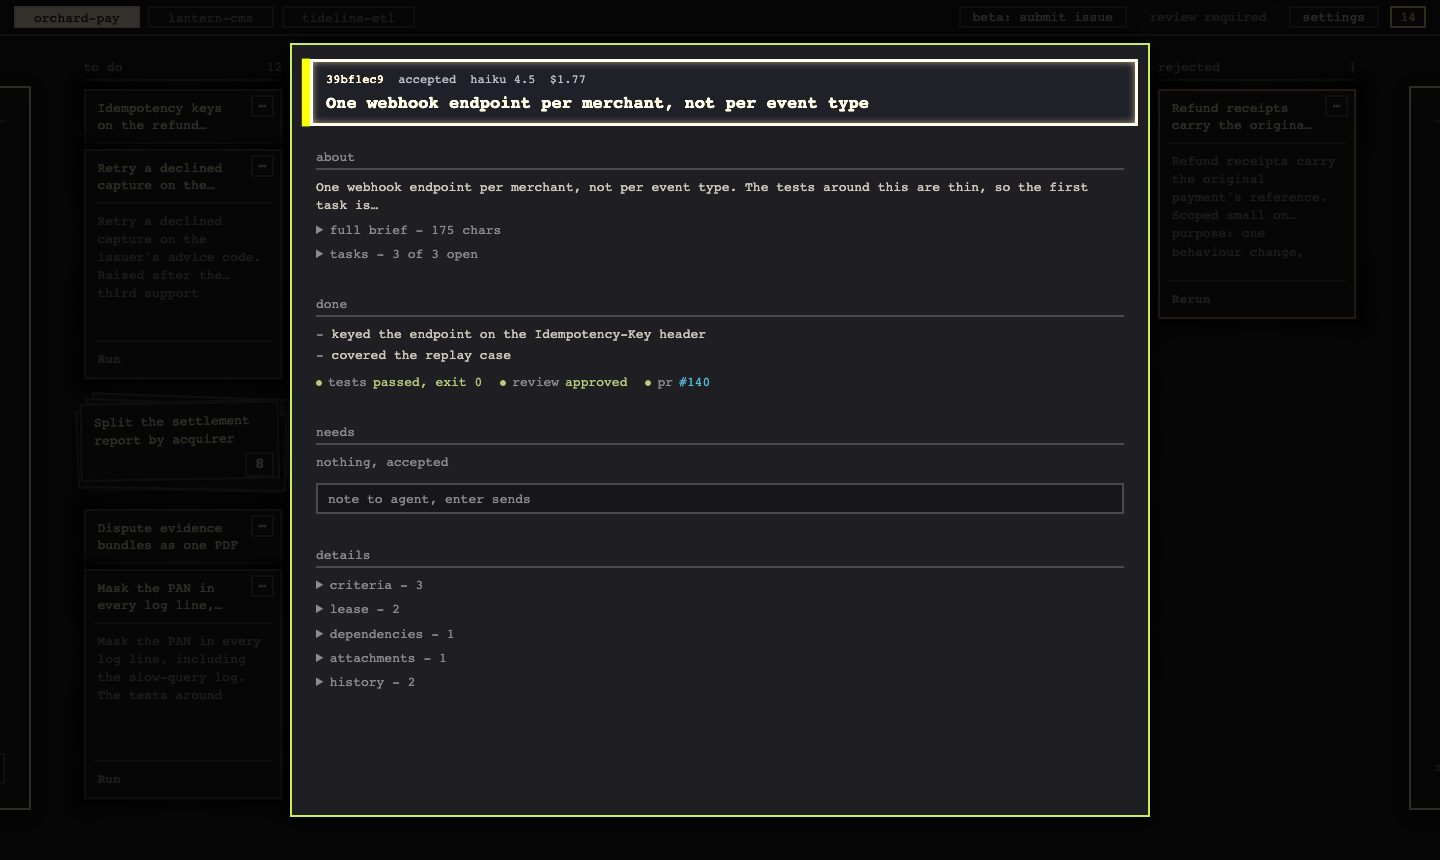
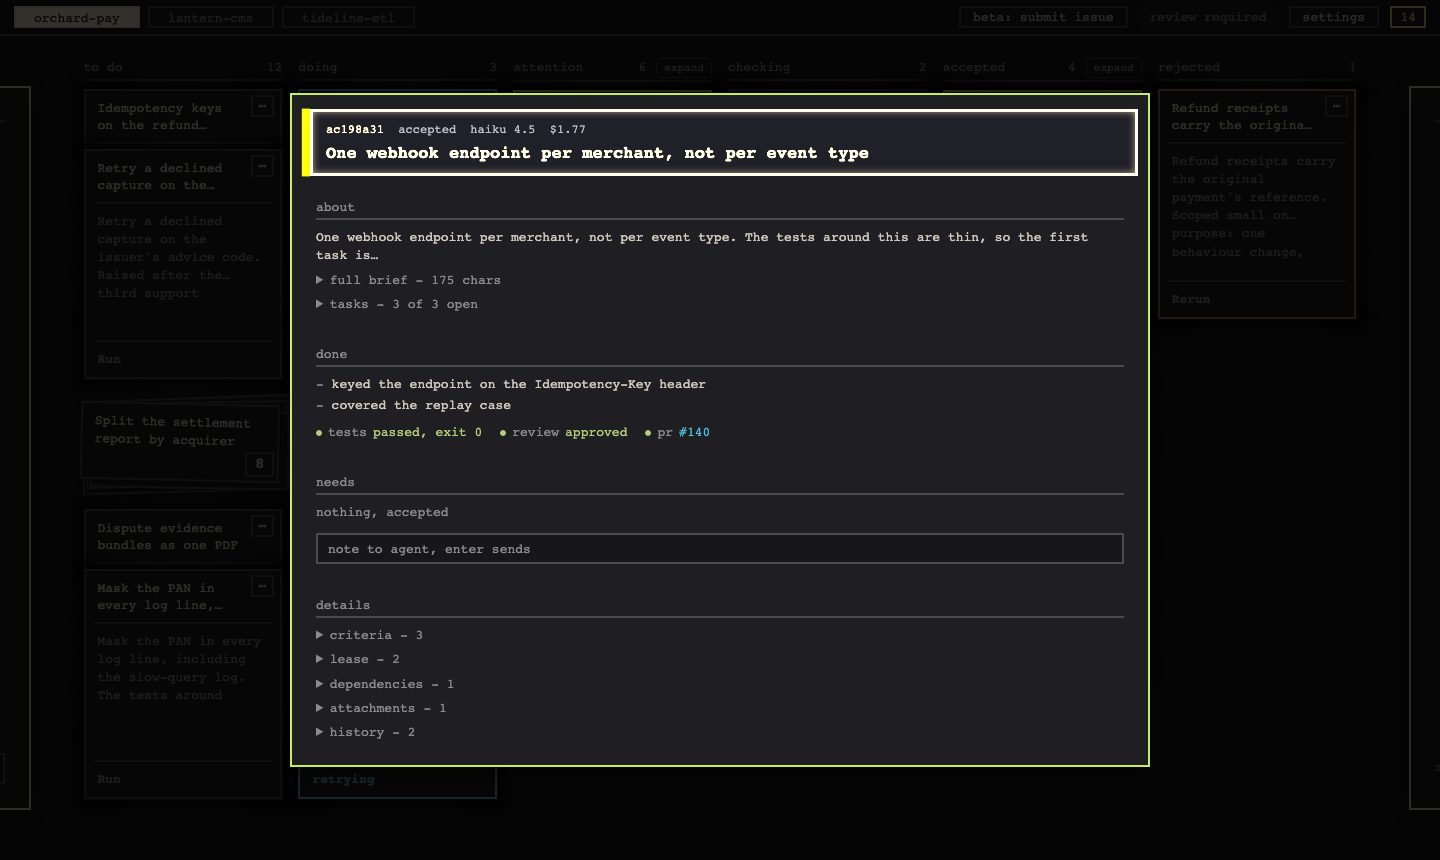
brought the readme up to the release: one-column card, fitted screenshot, outdated for waiting prs, 0.x, seed-beta
Claude-Session: https://claude.ai/code/session_01URWV3ht5P45VqmJX8jxDtj

diff --git a/README.md b/README.md
@@ -268,12 +268,13 @@ merge mode (review required or free merge) and its lease mode (strict or soft).
 > A card is not a conversation. It is feature-sized, not edit-sized, and nothing you meant but did
 > not write reaches the agent.
 
-![A card opened over the board: what it is about, what it has done and what it needs down the left; its criteria, lease and history down the right](docs/images/hero-card.jpg)
+![A card opened over the board, one column: what it is about, what it has done, what it needs, then its details folded to one line each](docs/images/hero-card.jpg)
 
 Open a card and it reads top to bottom: **about** (what it is for), **done** (what the agent
 delivered, with the test and review verdicts), **needs** (the one thing it wants from you, if
-anything). Its criteria, lease and history sit on the right. The arrow keys move between those
-sections with the same highlight frame the board uses.
+anything), then **details**: criteria, lease, dependencies, attachments and history, each folded to
+one line. The panel is as tall as its content. The arrow keys move between those sections with the
+same highlight frame the board uses.
 
 <details>
 <summary><b>The details</b></summary>
@@ -563,7 +564,7 @@ and retried, never forced.
 |---|---|
 | **Work with it** | Nothing to do. Review when you get to it. |
 | **Encourages** | Reviewing on your schedule, not the agent's. |
-| **Pays off as** | No stale diffs, and conflicts surface as `MERGE_CONFLICT` with a file list, not at merge time. |
+| **Pays off as** | No stale diffs, and conflicts surface as `OUTDATED` with a file list, not at merge time. |
 
 <details>
 <summary><b>The details</b></summary>
@@ -990,7 +991,7 @@ this list was read from, so the two cannot drift.
 
 | Key | Action |
 |---|---|
-| arrows | move focus; up also exits to the board bar. In an open card: up/down within a column, left/right across |
+| arrows | move focus; up also exits to the board bar. In an open card: up/down between sections |
 | `enter` | open the focused card |
 | `space` | open the focused card, or close the open one |
 | `esc` | one level back: input -> panel -> closed |
@@ -1108,13 +1109,15 @@ thing it was built to do.
 - **Task checkboxes in a pull request** are not ticked during a run.
 
 **What will change.** Anything on the rough list. The database migrates itself forward on every open,
-so upgrading does not cost you your boards - but this is a `0.1.x`, and settings, defaults and the
+so upgrading does not cost you your boards - but this is a `0.x`, and settings, defaults and the
 shape of individual panels are expected to move. The concepts above - cards, leases, the two gates,
 the landing lock, and human-only merges into main - are the parts that are not going to.
 
-**Try it end to end.** [docs/beta-test-board.md](docs/beta-test-board.md) builds a small browser
-game from one mission-control prompt: 12-14 cards with dependency chains and parallel tracks, a
-test gate that needs nothing but Node, and a table of which board feature each step exercises.
+**Try it end to end.** `uv run smortboard seed-beta <empty folder>` makes a small browser-game repo
+and a board of 15 cards already written, with dependency chains, parallel tracks and a test gate
+that needs nothing but Node. [docs/beta-test-board.md](docs/beta-test-board.md) walks it, has the
+mission-control prompt if you would rather plan it yourself, and a table of which board feature
+each step exercises.
 
 ### Sending a report
 
